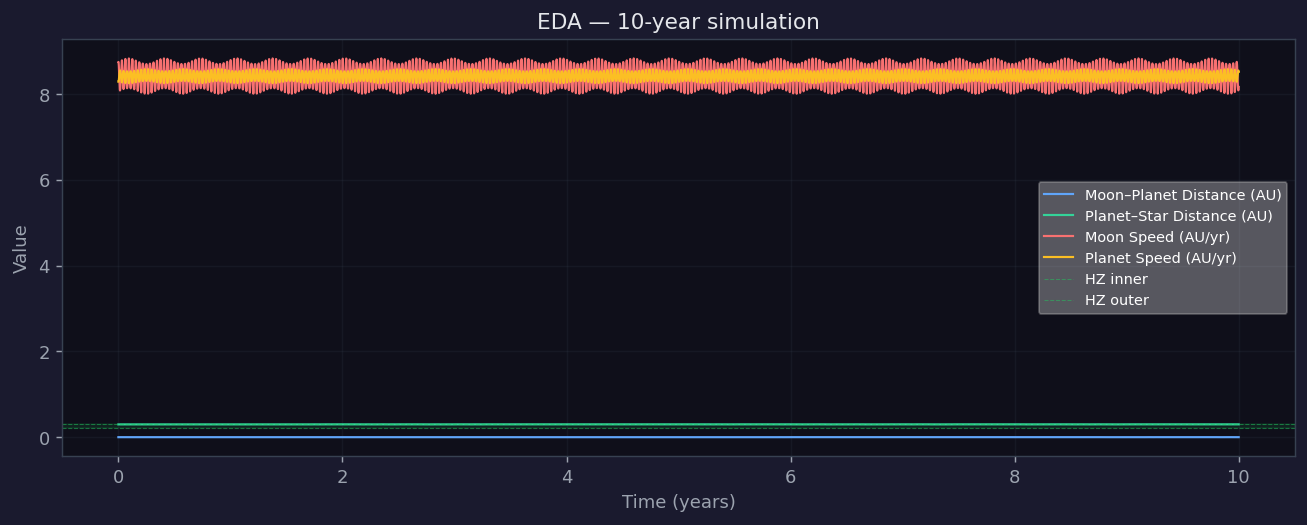
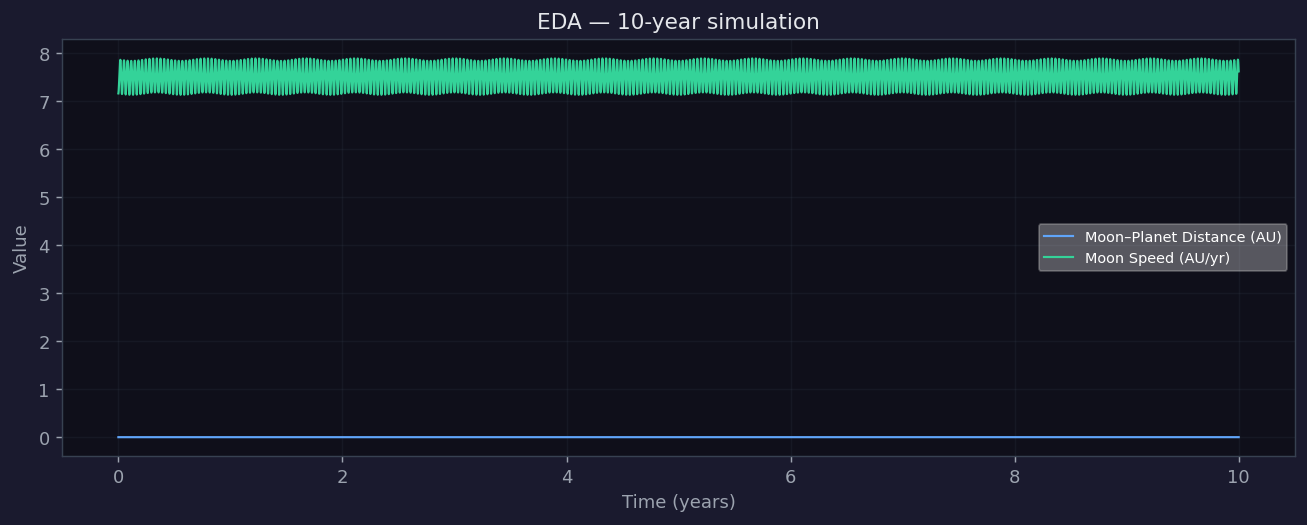
updated project title

diff --git a/exomoon-frontend/src/app/layout.tsx b/exomoon-frontend/src/app/layout.tsx
@@ -2,8 +2,8 @@ import type { Metadata } from 'next';
 import './globals.css';
 
 export const metadata: Metadata = {
-  title: 'Exomoon Orbital Integrator',
-  description: '3-body leapfrog integrator for exomoon stability analysis',
+  title: 'Planetary Orbital Dynamics Lab',
+  description: '3-body orbital dynamics simulator with ML stability prediction and AI chatbot',
 };
 
 export default function RootLayout({ children }: { children: React.ReactNode }) {

diff --git a/Exomoon_orbital_integrator/src/run_dash.py b/Exomoon_orbital_integrator/src/run_dash.py
@@ -57,7 +57,7 @@ from exomoon.exoplanet_archive import fetch_system_by_planet, estimate_density_g
 from exomoon.eda import pack_sim, unpack_sim, traj_to_frame, to_csv_bytes, var_info
 
 app = Dash(__name__, suppress_callback_exceptions=True,
-    title="Exomoon Orbital Integrator (Interactive)"
+    title="Planetary Orbital Dynamics Lab"
 )
 
 # Allow duplicate outputs/callbacks to fire on initial render safely
@@ -270,7 +270,7 @@ def _initial_figure():
         )],
         margin=dict(l=20, r=20, t=40, b=20),
         height=700,
-        title="Exomoon Orbital Integrator"
+        title="Planetary Orbital Dynamics Lab"
     )
     return fig
 
